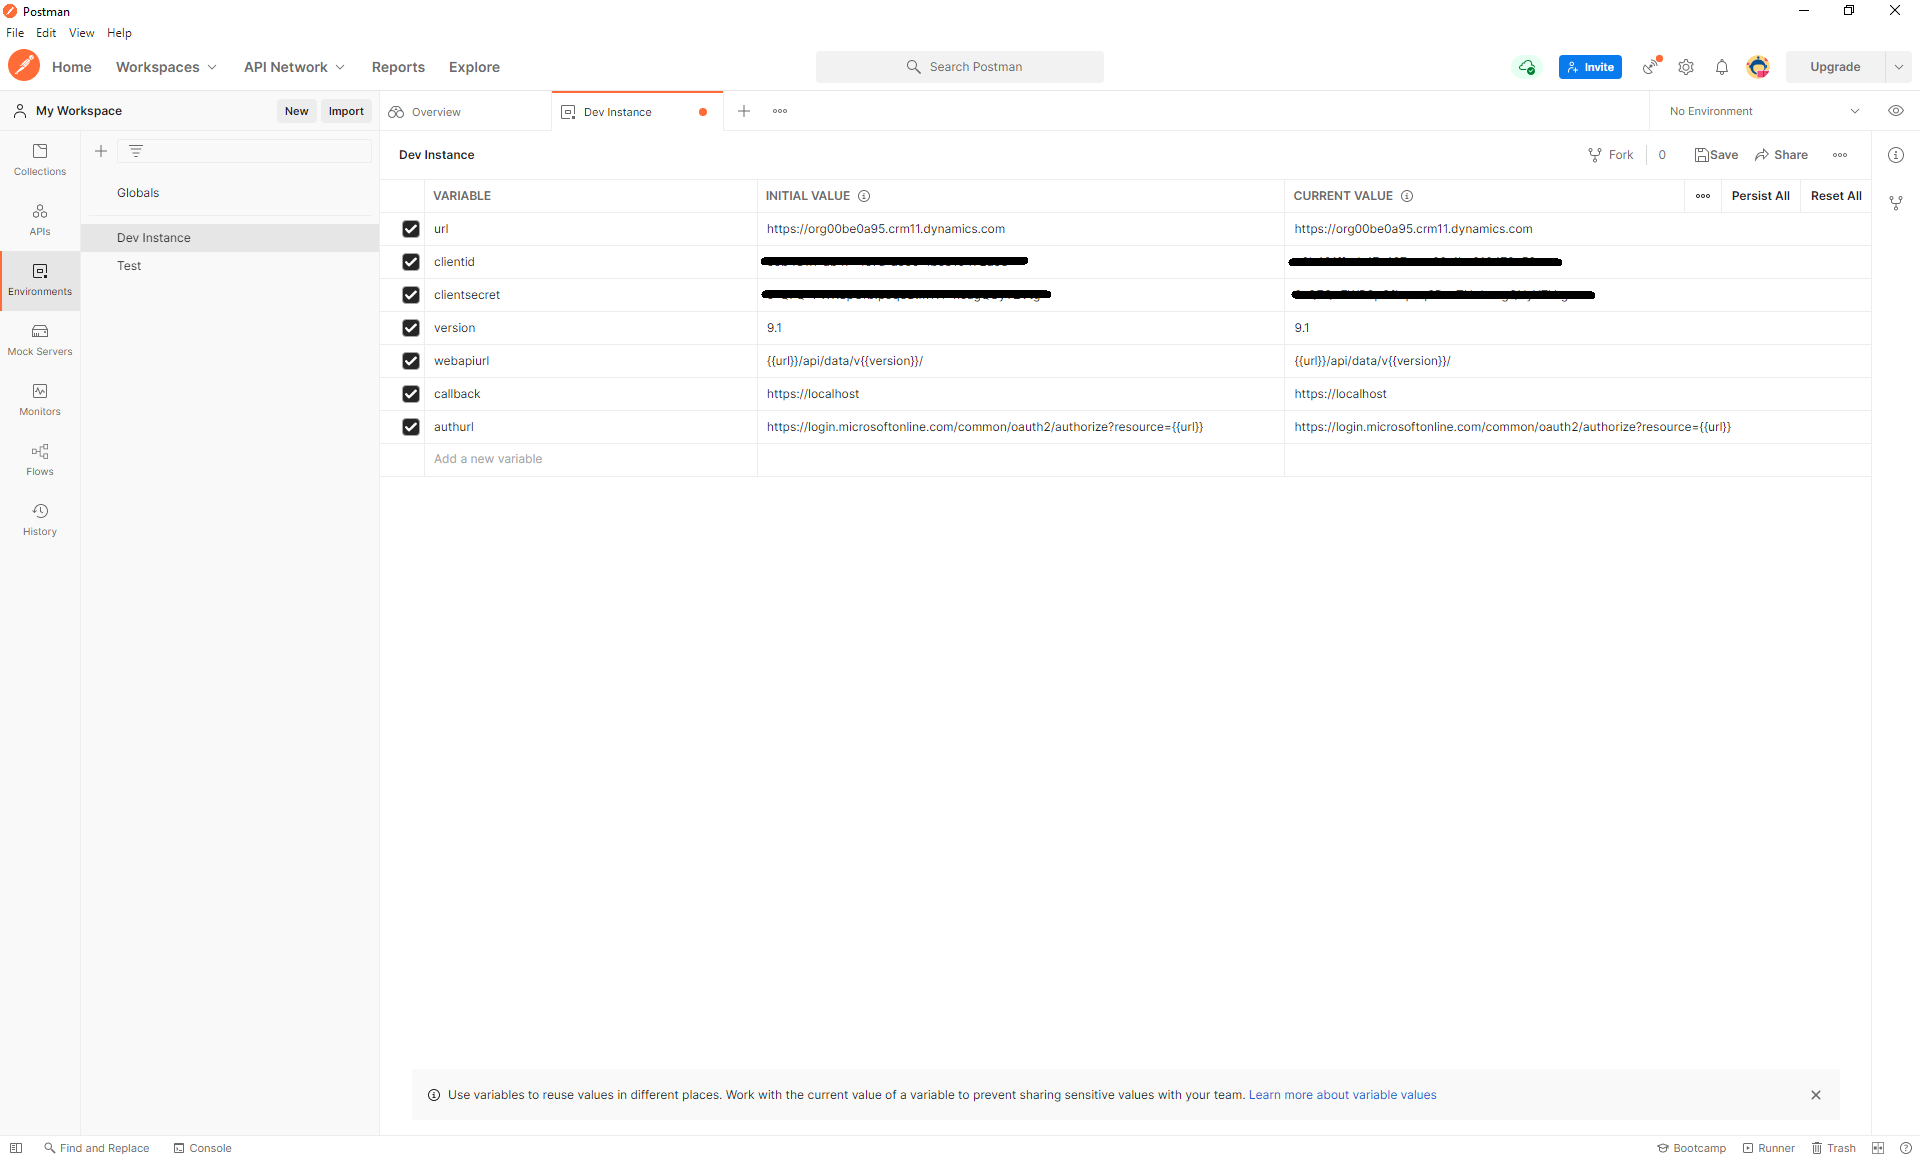
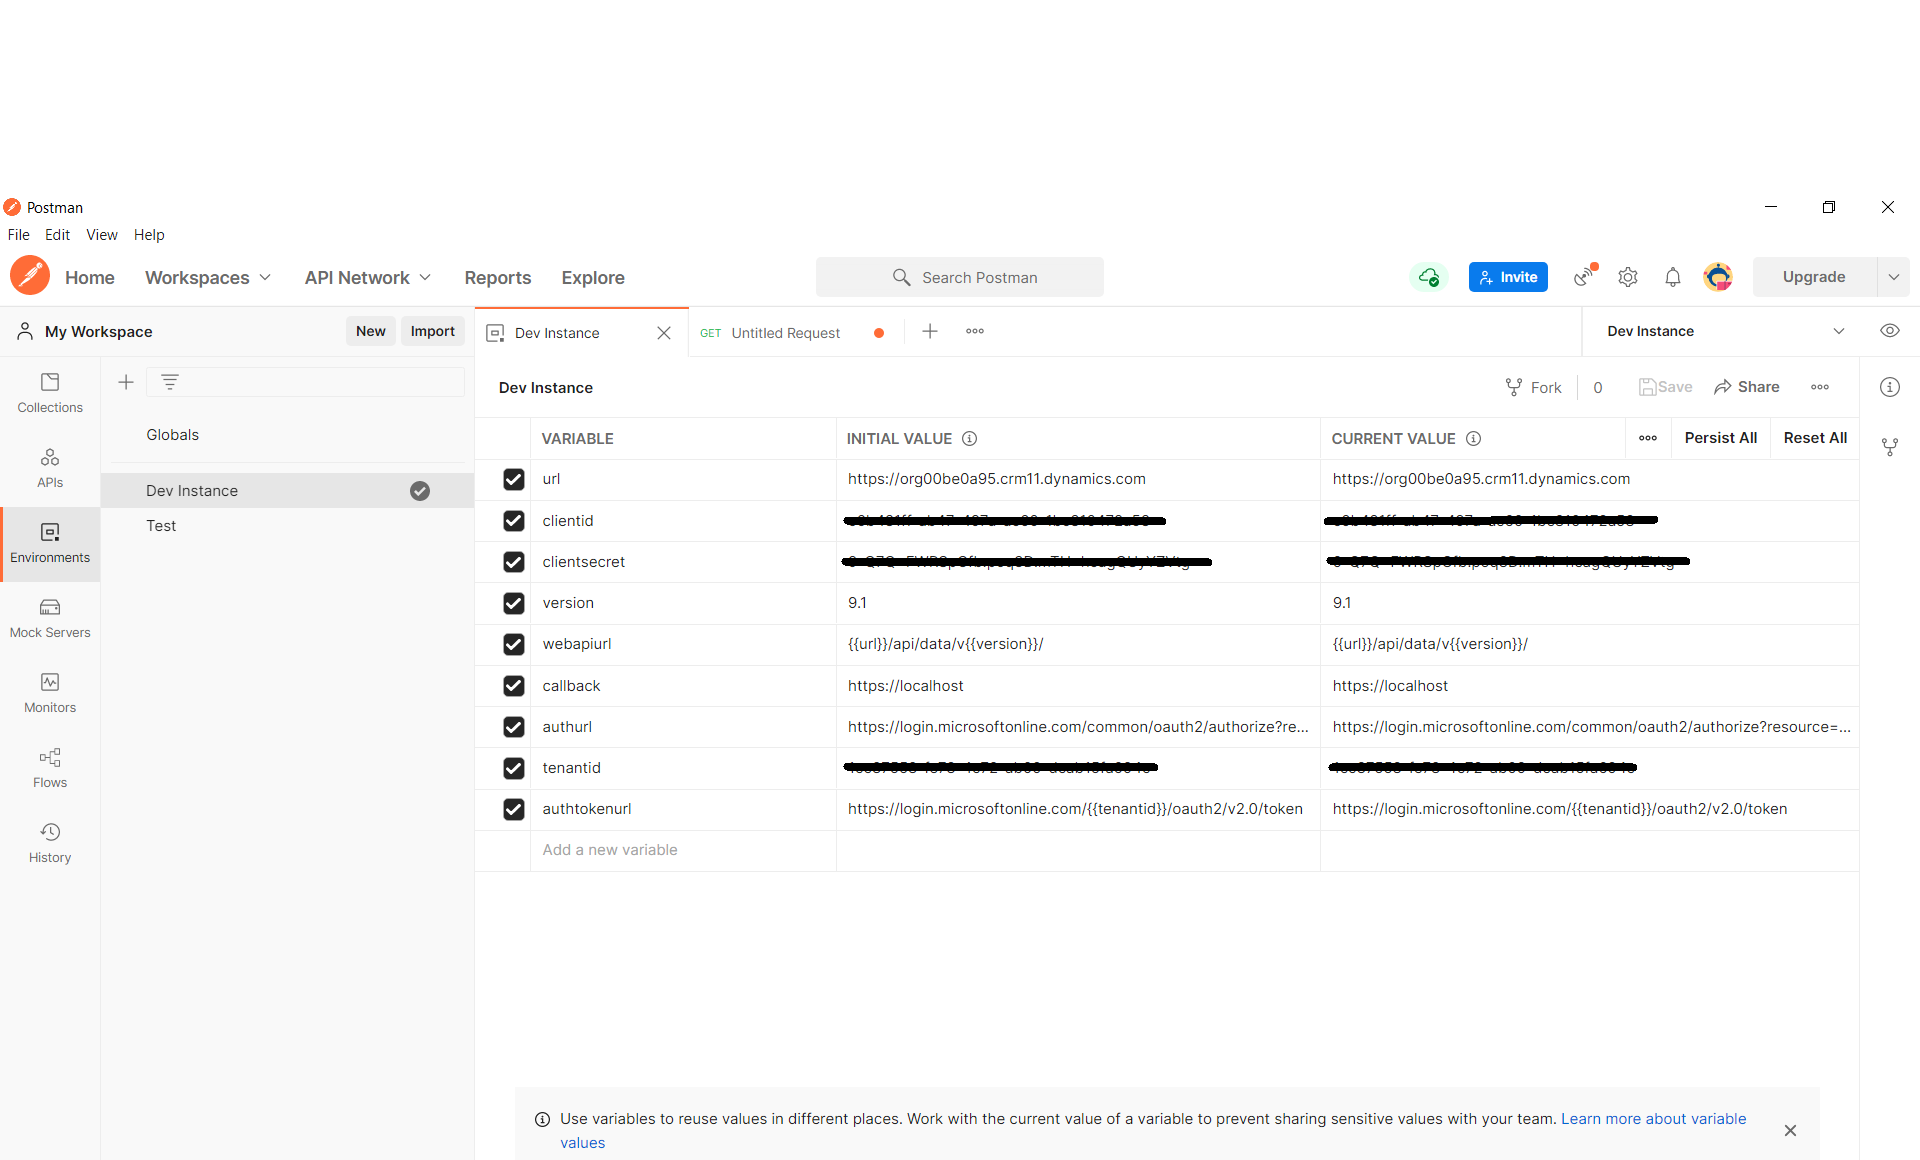
postman guide progress 2

diff --git a/codelabs/postman-with-power-platform.md b/codelabs/postman-with-power-platform.md
@@ -93,15 +93,99 @@ And give your environment a meaningful name. Once environment has been created, 
 
 There is a set of variables required by Postman in order to authenticate to Power Platform using OAuth2.0. These variables are;
 
-**Variable Name**                  **Value**
-url                                 Power App instance url https://<add your instance url>.crm11.dynamics.com
-clientid                            Application Registration Client Id created in pre-requisites
-version                             9.1
-webapiurl                           {{url}}/api/data/v{{version}}/
-callback                            https://callbackurl
-authurl                             https://login.microsoftonline.com/common/oauth2/authorize?resource={{url}}
-clientsecret                        Application Registration Client Secret created in pre-requisites
+<table>
+  <tr>
+   <td><strong>Variable Name</strong>
+   </td>
+   <td><strong>Value</strong>
+   </td>
+  </tr>
+  <tr>
+   <td>url
+   </td>
+   <td>Power App instance url https://<add your instance url>.crm11.dynamics.com
+   </td>
+  </tr>
+  <tr>
+   <td>clientid
+   </td>
+   <td>Application Registration Client Id created in pre-requisites
+   </td>
+  </tr>
+  <tr>
+   <td>version
+   </td>
+   <td>9.1
+   </td>
+  </tr>
+  <tr>
+   <td>webapiurl
+   </td>
+   <td>{{url}}/api/data/v{{version}}/
+   </td>
+  </tr>
+  <tr>
+   <td>callback
+   </td>
+   <td>https://callbackurl
+   </td>
+  </tr>
+  <tr>
+   <td>authurl
+   </td>
+   <td>https://login.microsoftonline.com/common/oauth2/authorize?resource={{url}}
+   </td>
+  </tr>
+  <tr>
+   <td>clientsecret
+   </td>
+   <td>Application Registration Client Secret created in pre-requisites
+   </td>
+  </tr>
+  <tr>
+   <td>tenantid
+   </td>
+   <td>Application Registration tenant id in Azure Active Directory
+   </td>
+  </tr>
+  <tr>
+   <td>authtokenurl
+   </td>
+   <td>https://login.microsoftonline.com/{{tenantid}}/oauth2/v2.0/token
+   </td>
+  </tr>
+</table>
 
-Once you created these in your environment then it should look as shown below
+
+Once you created these in your environment then click on **Save** it should look as shown below
 
 ![image.png](.attachments/postman-with-power-platform/image9.png)
+
+### Generate an access token to use with Environment
+
+There are multiple ways to getting a token in order to connect to Power App instance. First you will need to create a new tab in order to build a request. To do this please follow below:
+
+- Select File > New and from Create New dialog, select **HTTP Request**. This will add a new tab into Request Builder Section . Please make sure you set the environment to the one created in the **Create Environment Step** as shown below.
+
+![image.png](.attachments/postman-with-power-platform/image10.png)
+
+To create a token using **Client Credentials** as **Grant Type**:
+- Select **Authorization** and set Type to **OAuth 2.0** and set the **Grant Type** to Client **Credentials** and then fill in the rest of the fields under **Configure New Token** section with the variables created in **Create Environment Step**. Once all set it should look like below.
+
+![image.png](.attachments/postman-with-power-platform/image11.png)
+
+- Then to generate the token, click **Generate New Access Token** button and you will then be presented with **Get New Access Token** dialog window. Once this shows **Authentication Complete** then click **Proceeed** as shown below.
+
+![image.png](.attachments/postman-with-power-platform/image12.png)
+
+- Then you will be presented with the **Manage Access Token** dialog. Give the token any name and click on **Use Token**
+
+![image.png](.attachments/postman-with-power-platform/image13.png)
+
+- You are now ready to execute your first request against the Power Platform instance using **WhoAmI** request to confirm connection is working. To do this please follow below:
+    - You will add the 'webapiurl' variable created plus 'WhoAmI' into the request URL and then click on Send as shown below
+    
+    ![image.png](.attachments/postman-with-power-platform/image14.png)
+
+    Response code 200 is a success. And we can see the response for the request sent
+
